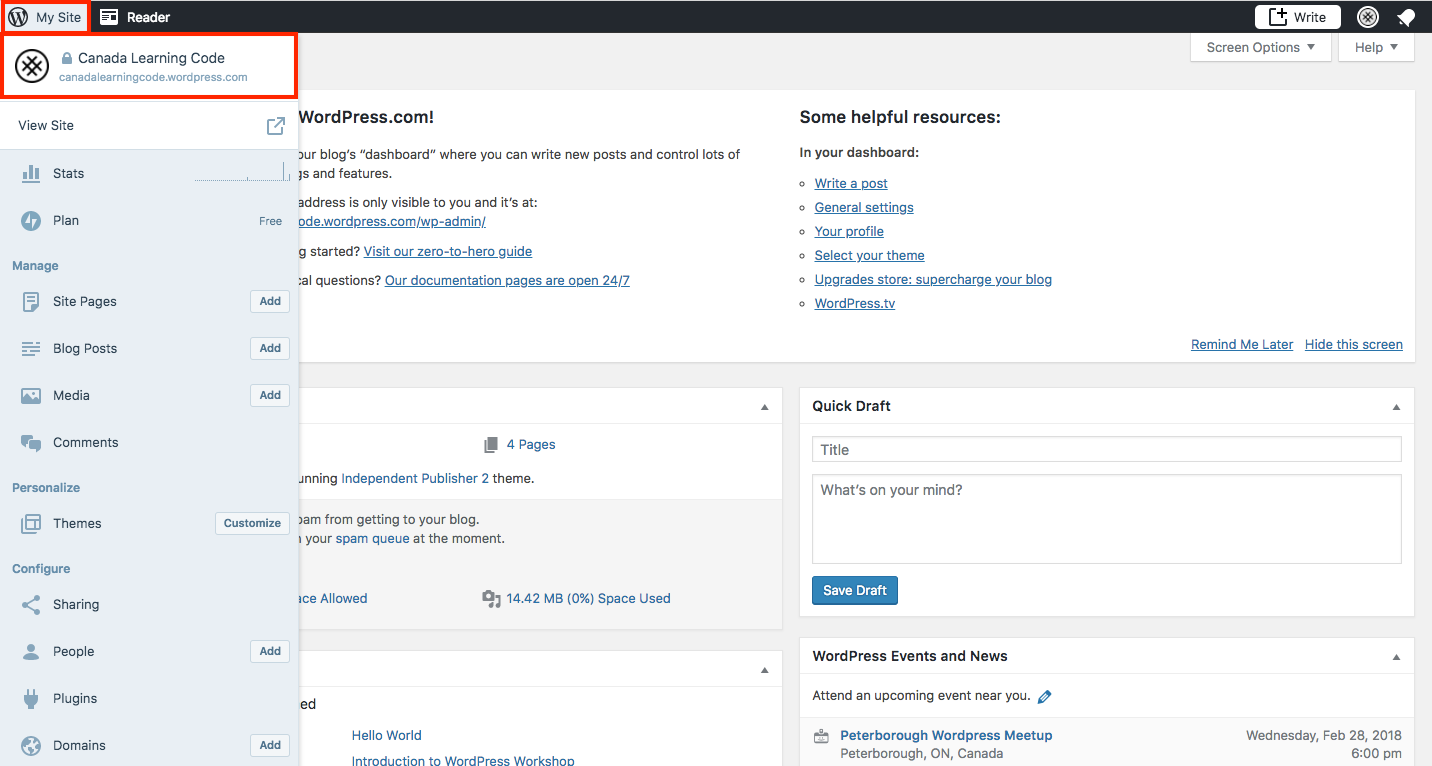
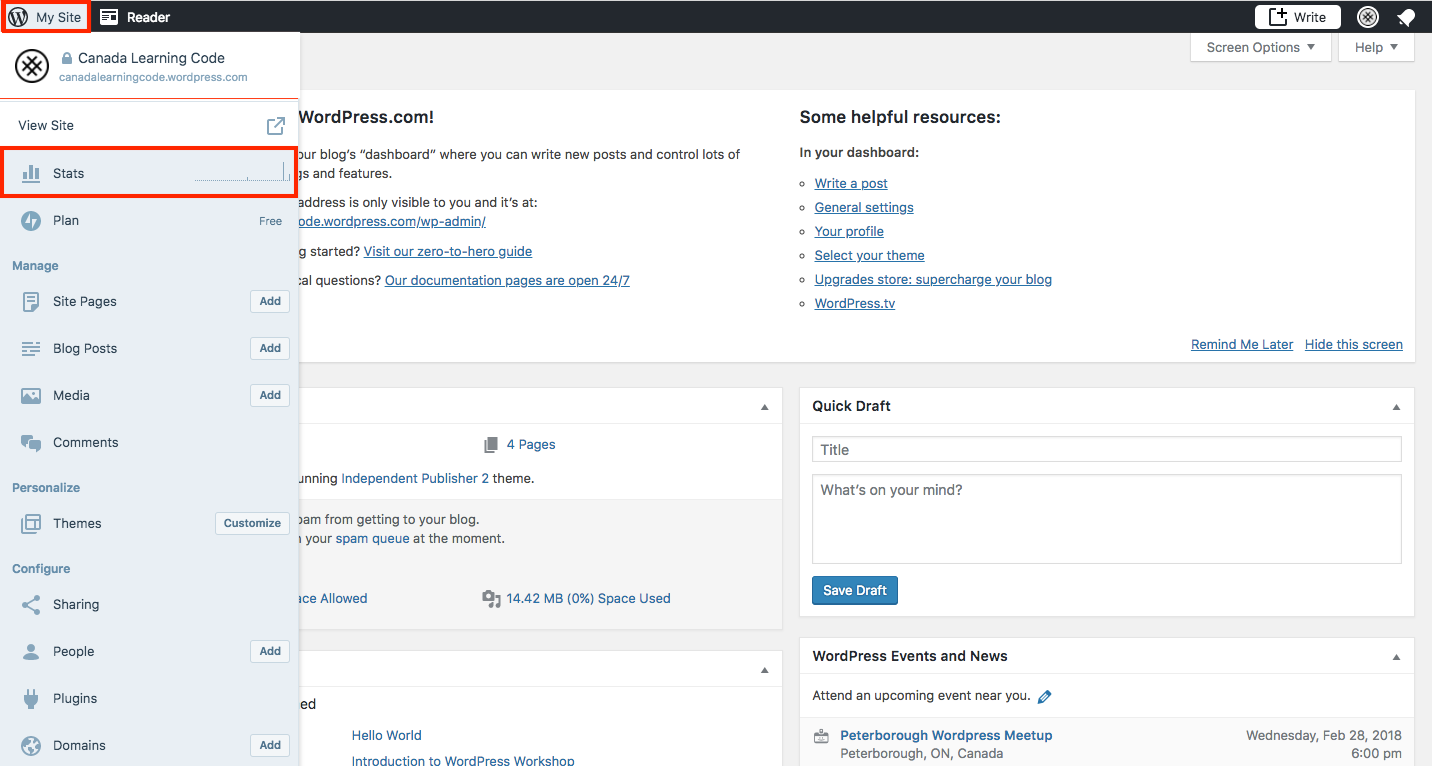
New screenshots - Updates

Changed region(s): [[0.0, 0.03, 0.2151, 0.1501], [0.0, 0.2402, 0.2151, 0.2702], [0.0, 0.1802, 0.2151, 0.2102]]

diff --git a/slides.html b/slides.html
@@ -198,7 +198,7 @@
         https://yoursitename.wordpress.com/wp-admin/
         ```
 
-        **Option 2:** Log into https://wordpress.com - This will default to your **Reader**. Select **My Site** > your Wordpress site.
+        **Option 2:** Log into https://wordpress.com - This will default to your **Reader**. Select **My Site > Stats**.
         ![My Site screenshot](framework/img/workshop/10-my-site.png)
       </script>
     </section>
